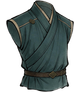
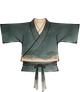
feat: B→A 完成 —— 提示语 v2/v3 迭代 + 16 件全齐（hero_trial 完整皮肤）
B（重生成 6 件比一版）
- 提示语 v2：手臂斜置 → 加「竖直摆放、笔直边缘平行、不是弯曲手臂」；头加「不要发带飘带」；
  躯干改「从领口到腰带为止」；全局加「像平铺在桌面上」「四周留白」
- 结果：头明显变好（脸更大更居中），袖子变竖直不再与躯干交叉 ✅
- 但暴露新问题：袖子被画得**太细**（内容宽高比 1:8 vs 骨骼盒 1:2.2），等比缩放后只剩 5px 宽 ≈ 手臂消失

关键修复（v3，两条都是实测逼出来的）
1) **画布比例决定部件朝向**：给 2496×1664（横）模型就把袖子画成横的（upperArmL 内容盒 2009×1408）。
   四肢统一给竖构图 1024x2048、脚给横构图 2048x1024 → 写进 art-prompts.json 的 sizes（按部件覆盖）
2) **四肢对位改用 fill（非等比铺满骨骼盒）**：四肢是"软性筒状物"，骨架盒就是形状权威；
   头/躯干/手/脚/披风/武器仍 contain（避免脸被拉变形）。新增 DEFAULT_PART_FIT 表 + 2 项测试

A（补齐剩余部件）
- 新增 10 件提示语：骨盆 / 左右手 / 左右大腿 / 左右小腿 / 左右靴 / 披风；声明 weaponGroup=dao
  （武器用共享贴图 weapons/dao/dao_<品质>.png，不单独生成）
- 最终 16 件自有贴图 + 1 件继承（weapon）→ hero_trial 是完整皮肤，可独立使用

v3 又暴露 4 个美术问题（已记入 art-prompts.json _notes 8~11 与提示语包 §4.5）
- 躯干又长出袖子 → 与上臂叠加成"双层袖"
- 左右同部件色调不一致（左小腿近黑）
- 腰部露白（torso 到腰带 + pelvis 68×32，接缝露背景）
- 上臂/前臂各带袖口束带 → 手臂出现 2~3 道横带

工具改进
- gen-art.ts：--out 覆盖输出目录（A/B 对比互不覆盖）；按部件尺寸；extras 走 verbatim
- fit-skin-part.ts：--fit 支持 fill，默认 auto（走 per-slot 表）
- 提示语包 md/txt 补 §4.5 第三轮发现与两条 v3 修复

证据（preview/ai-art/）
- 06 全 16 件对位后 4× 实拍 / 07 游戏内完整皮肤特写 / 08 游戏内整场
- 临时接入用的 units.csv 改动已还原并逐字节核对

验证：tsc 通过；208 项测试全绿（新增 2 项对位策略测试）；skin:check 通过

diff --git a/jianghu-game/tools/gen-art.ts b/jianghu-game/tools/gen-art.ts
@@ -39,8 +39,19 @@ export interface PromptConfig {
   charId: string;
   name?: string;
   body: string;
+  /** 武器组：写进 skin.json，决定用哪一套共享武器贴图（不填则跟随所在单位的武器组） */
+  weaponGroup?: string;
   model: string;
+  /** 默认出图尺寸（WxH 或 1K/2K/4K 预设） */
   size: string;
+  /**
+   * 按部件覆盖出图尺寸。
+   *
+   * ⚠ 这条是实测逼出来的：**画布比例会决定模型怎么摆部件**。
+   *   给 2496×1664（横）它就把袖子画成横的；给 1584×2816（竖）才画成竖的。
+   *   而 cutout 管线要求四肢"像平铺在桌面上"、主轴竖直 —— 所以四肢必须给竖构图。
+   */
+  sizes?: Record<string, string>;
   /** true 会带上平台的"AI 生成"水印 —— 部件贴图必须为 false */
   watermark?: boolean;
   stylePrefix: string;
@@ -200,6 +211,8 @@ interface Cli {
   force: boolean;
   only: string[] | null;
   char: string | null;
+  /** 覆盖原始图输出目录（用于 A/B 对比两版提示语，互不覆盖） */
+  out: string | null;
   model: string | null;
   size: string | null;
   delayMs: number;
@@ -212,6 +225,7 @@ function parseCli(argv: string[]): Cli {
     force: argv.includes('--force'),
     only: flag('only')?.split(',').map((s) => s.trim()).filter(Boolean) ?? null,
     char: flag('char') ?? null,
+    out: flag('out') ?? null,
     model: flag('model') ?? null,
     size: flag('size') ?? null,
     delayMs: Number(flag('delay') ?? 1200),
@@ -229,24 +243,39 @@ async function main(): Promise<void> {
   const cfg = JSON.parse(readFileSync(PROMPTS_FILE, 'utf8')) as PromptConfig;
   const charId = cli.char ?? cfg.charId;
   const model = cli.model ?? cfg.model;
-  const size = cli.size ?? cfg.size;
+  const defaultSize = cli.size ?? cfg.size;
 
-  const rawDir = join(ASSETS, 'chars', charId, 'raw');
+  const rawDir = cli.out
+    ? join(GAME_ROOT, cli.out)
+    : join(ASSETS, 'chars', charId, 'raw');
   const extrasDir = join(rawDir, '_extras');
 
   // 组装任务清单：parts 进 raw/，extras 进 raw/_extras/
-  const jobs: { name: string; prompt: string; outPath: string }[] = [];
+  const jobs: { name: string; prompt: string; size: string; outPath: string }[] = [];
   for (const [slot, subject] of Object.entries(cfg.parts)) {
     if (cli.only && !cli.only.includes(slot)) continue;
-    jobs.push({ name: slot, prompt: composePrompt(cfg, subject), outPath: join(rawDir, `${slot}.png`) });
+    jobs.push({
+      name: slot,
+      prompt: composePrompt(cfg, subject),
+      size: cfg.sizes?.[slot] ?? defaultSize,
+      outPath: join(rawDir, `${slot}.png`),
+    });
   }
   for (const [name, subject] of Object.entries(cfg.extras ?? {})) {
     if (cli.only && !cli.only.includes(name)) continue;
-    jobs.push({ name, prompt: composePrompt(cfg, subject, true), outPath: join(extrasDir, `${name}.png`) });
+    jobs.push({
+      name,
+      prompt: composePrompt(cfg, subject, true),
+      size: cfg.sizes?.[name] ?? defaultSize,
+      outPath: join(extrasDir, `${name}.png`),
+    });
   }
 
   console.log('=== 生图（火山方舟 · Seedream）===');
-  console.log(`角色 ${charId}　体型 ${cfg.body}　模型 ${model}　尺寸 ${size}　水印 ${cfg.watermark === true ? '开（部件贴图建议关）' : '关'}`);
+  const usedSizes = new Set(jobs.map((j) => j.size));
+  console.log(
+    `角色 ${charId}　体型 ${cfg.body}　模型 ${model}　尺寸 ${[...usedSizes].join(' / ')}　水印 ${cfg.watermark === true ? '开（部件贴图建议关）' : '关'}`,
+  );
   console.log(`输出目录 ${rawDir.replace(`${GAME_ROOT}/`, '')}/`);
   console.log(`任务 ${jobs.length} 张${cli.only ? `（--only=${cli.only.join(',')}）` : ''}`);
 
@@ -255,7 +284,7 @@ async function main(): Promise<void> {
     console.log('── --dry：以下是将要发送的请求（不调用 API、不花钱）──');
     for (const j of jobs) {
       console.log('');
-      console.log(`【${j.name}】→ ${j.outPath.replace(`${GAME_ROOT}/`, '')}`);
+      console.log(`【${j.name}】${j.size} → ${j.outPath.replace(`${GAME_ROOT}/`, '')}`);
       console.log(j.prompt);
     }
     console.log('');
@@ -291,7 +320,7 @@ async function main(): Promise<void> {
       model,
       prompt: job.prompt,
       response_format: 'url',
-      size,
+      size: job.size,
       stream: false,
       watermark: cfg.watermark === true,
     });
@@ -333,11 +362,25 @@ async function main(): Promise<void> {
     console.log(`已生成审图接触表（${n} 张）：${sheet.replace(`${GAME_ROOT}/`, '')}`);
     // 顺手写一份"试穿用"的皮肤声明（已存在则不动）
     const skinPath = join(ASSETS, 'chars', charId, 'skin.json');
-    if (!existsSync(skinPath)) {
+    if (cli.out) {
+      console.log('（--out 模式：不改动 skin.json）');
+    } else if (!existsSync(skinPath)) {
       mkdirSync(dirname(skinPath), { recursive: true });
       writeFileSync(
         skinPath,
-        `${JSON.stringify({ id: charId, name: cfg.name ?? charId, body: cfg.body, art: 'base_male', palette: {}, parts: {} }, null, 2)}\n`,
+        `${JSON.stringify(
+          {
+            id: charId,
+            name: cfg.name ?? charId,
+            body: cfg.body,
+            art: 'base_male',
+            ...(cfg.weaponGroup ? { weaponGroup: cfg.weaponGroup } : {}),
+            palette: {},
+            parts: {},
+          },
+          null,
+          2,
+        )}\n`,
         'utf8',
       );
       console.log(`已写试穿声明：${skinPath.replace(`${GAME_ROOT}/`, '')}（未画的部件继承底图 base_male）`);

diff --git a/jianghu-game/tools/fit-skin-part.ts b/jianghu-game/tools/fit-skin-part.ts
@@ -32,7 +32,8 @@ import { fileURLToPath } from 'node:url';
 import sharp from 'sharp';
 
 import { RIGS, DEFAULT_RIG_ID } from '../src/data/rigs.ts';
-import { expectedSkinSize, fitPartGeometry } from '../src/core/anim/skin.ts';
+import { expectedSkinSize, fitPartGeometry, resolveFitMode } from '../src/core/anim/skin.ts';
+import type { PartFitMode } from '../src/core/anim/skin.ts';
 import { SLOT_NAMES } from '../src/core/anim/types.ts';
 import type { RigDef, SlotName } from '../src/core/anim/types.ts';
 
@@ -53,7 +54,8 @@ interface Options {
   char: string | null;
   key: string;
   keyTol: number;
-  fit: 'contain' | 'height' | 'width';
+  /** auto = 按 slot 用 DEFAULT_PART_FIT（四肢 fill、其余 contain） */
+  fit: PartFitMode | 'auto';
   dry: boolean;
   pad: number;
 }
@@ -70,7 +72,7 @@ function parseArgs(argv: string[]): Options {
     char: flag('char') ?? null,
     key: flag('key') ?? 'auto',
     keyTol: Number(flag('key-tol') ?? 36),
-    fit: (flag('fit') as Options['fit']) ?? 'contain',
+    fit: (flag('fit') as Options['fit']) ?? 'auto',
     dry: argv.includes('--dry'),
     pad: Number(flag('pad') ?? 0),
   };
@@ -205,7 +207,8 @@ export async function fitPart(
   if (!box) throw new Error(`${basename(rawPath)}：抠底后没有任何不透明内容（背景色判断错了？试试 --key=none）`);
 
   // ④⑤⑥ 缩放 + 对枢轴（几何在 core 里，可零依赖测试）
-  const fit = fitPartGeometry({ w: box.w, h: box.h }, { w: targetW, h: targetH }, { x: px, y: py }, opts.fit);
+  const mode = resolveFitMode(slot, opts.fit);
+  const fit = fitPartGeometry({ w: box.w, h: box.h }, { w: targetW, h: targetH }, { x: px, y: py }, mode);
   const { destW, destH } = fit;
 
   // ⑤ 裁到内容盒 → 缩放到目标尺寸（lanczos 保细节）
@@ -245,7 +248,7 @@ export async function fitPart(
       scale: Math.round(fit.scale * 1000) / 1000,
       outputSize: `${targetW}×${targetH}`,
       keyed: keyed ? `是（${keyColor}，tol=${opts.keyTol}）` : '否',
-      anchor: `枢轴 ${px},${py} → 画布 (${Math.round(px * targetW)}, ${Math.round(py * targetH)}) 已钉住`,
+      anchor: `[${mode}] 枢轴 ${px},${py} → 画布 (${Math.round(px * targetW)}, ${Math.round(py * targetH)}) 已钉住`,
     },
   };
 }
@@ -264,7 +267,7 @@ async function main(): Promise<void> {
   if (!rig) throw new Error(`未知体型「${opts.body}」（可用：${Object.keys(RIGS).join(' / ')}）`);
 
   console.log('=== 部件贴图对位 ===');
-  console.log(`体型 ${opts.body}　抠底 ${opts.key}　适配 ${opts.fit}`);
+  console.log(`体型 ${opts.body}　抠底 ${opts.key}　适配 ${opts.fit}（auto = 四肢 fill、其余 contain）`);
 
   // ── 单个文件模式 ──
   if (!opts.char) {
@@ -274,7 +277,7 @@ async function main(): Promise<void> {
       console.log('  node tools/fit-skin-part.ts 原始图.png --slot=torso --body=male_adult --out=输出/torso.png');
       console.log('  node tools/fit-skin-part.ts 原始目录/ --char=ren_dao --body=burly [--dry]');
       console.log('');
-      console.log('可选参数：--key=auto|none|#rrggbb（默认 auto）　--key-tol=36　--fit=contain|height|width');
+      console.log('可选参数：--key=auto|none|#rrggbb（默认 auto）　--key-tol=36　--fit=auto|contain|height|width|fill');
       return;
     }
     if (!SLOT_NAMES.includes(opts.slot)) throw new Error(`未知 slot：${opts.slot}`);

diff --git a/jianghu-game/src/core/anim/skin.ts b/jianghu-game/src/core/anim/skin.ts
@@ -136,7 +136,7 @@ export interface PartFit {
   top: number;
 }
 
-export type PartFitMode = 'contain' | 'height' | 'width';
+export type PartFitMode = 'contain' | 'height' | 'width' | 'fill';
 
 /**
  * 把"内容包围盒"放进"部件画布"，**并让枢轴点对齐**。
@@ -161,14 +161,53 @@ export function fitPartGeometry(
         ? canvas.w / box.w
         : Math.min(canvas.w / box.w, canvas.h / box.h);
 
-  const destW = Math.max(1, Math.round(box.w * scale));
-  const destH = Math.max(1, Math.round(box.h * scale));
+  // fill = 直接铺满画布（允许非等比拉伸）。见 DEFAULT_PART_FIT 的说明。
+  const destW = mode === 'fill' ? canvas.w : Math.max(1, Math.round(box.w * scale));
+  const destH = mode === 'fill' ? canvas.h : Math.max(1, Math.round(box.h * scale));
 
   // 内容盒上的枢轴点 → 画布上的枢轴点
   const left = Math.round(pivot.x * canvas.w - pivot.x * destW);
   const top = Math.round(pivot.y * canvas.h - pivot.y * destH);
 
   return { destW, destH, scale, left, top };
+}
+
+/**
+ * 每个 slot 的**默认对位策略**。
+ *
+ * 为什么不能一律用 contain（等比）？
+ *   实测：AI 把"上臂"画成一根很细的竖长条（宽高比 1:8），而骨骼盒是 24×52（1:2.2）。
+ *   等比缩放后袖子只剩 5px 宽，渲染到屏幕上约 2px —— 等于手臂没了。
+ *
+ *   判断依据是"这个部件是不是一个软性筒状物"：
+ *     · 四肢（上臂/前臂/大腿/小腿）= 布筒 → `fill`：**骨架盒就是形状权威**，
+ *       轻微非等比拉伸在纯色布料上几乎看不出来，且能保证关节与比例正确
+ *     · 躯干/头/手/脚/披风/武器 = 有明确外形 → `contain`：宁可窄一点，也不能把脸拉变形
+ */
+export const DEFAULT_PART_FIT: Record<SlotName, PartFitMode> = {
+  pelvis: 'contain',
+  torso: 'contain',
+  head: 'contain',
+  cloak: 'contain',
+  upperArmR: 'fill',
+  forearmR: 'fill',
+  upperArmL: 'fill',
+  forearmL: 'fill',
+  thighR: 'fill',
+  shinR: 'fill',
+  thighL: 'fill',
+  shinL: 'fill',
+  handR: 'contain',
+  handL: 'contain',
+  footR: 'contain',
+  footL: 'contain',
+  weapon: 'contain',
+};
+
+/** 取某个 slot 的对位策略（override 传了就用 override） */
+export function resolveFitMode(slot: SlotName, override?: PartFitMode | 'auto'): PartFitMode {
+  if (override && override !== 'auto') return override;
+  return DEFAULT_PART_FIT[slot] ?? 'contain';
 }
 
 /* ══════════════════════ 校验 ══════════════════════ */

diff --git a/jianghu-references/01_character/生图提示语_角色部件_v1.0.md b/jianghu-references/01_character/生图提示语_角色部件_v1.0.md
@@ -150,6 +150,47 @@
 
 ---
 
+## 4.4 ⚠ 第二轮修订（v2）—— 首轮试穿暴露的三个坑
+
+首轮用本文件 §4.2 的提示语生成了 6 件（躯干 / 头 / 左右上臂 / 左右前臂），
+风格与质量都达标，但**挂到骨骼上**暴露了三个问题。它们都不是"画得不好"，而是"画得不符合部件规范"：
+
+| # | 现象 | 根因 | v2 提示语怎么改 |
+|:-:|------|------|-----------------|
+| 1 | 袖子与躯干**交叉成 X** | 模型按"手臂自然下垂"画成了斜置，而部件必须像**平铺在桌面上** | 加「**竖直摆放、笔直向下、左右边缘平行、不是弯曲手臂**」 |
+| 2 | 头**偏小**、脸只占画布 60% 宽 | 发带飘带也被算进内容包围盒，把脸挤小了 | 加「**不要画发带、不要飘带、不要长发飘散**」 |
+| 3 | 躯干下摆**压到骨盆** | 画到了腰带以下，多出的衣摆被挤进躯干骨骼盒 | 改为「**从领口到腰带为止，腰带以下不要画**」 |
+
+另外两条全局修订（写进 `stylePrefix` / `styleSuffix`）：
+
+| 修订 | 原因 |
+|------|------|
+| 加「物品像**平铺在桌面上**一样摆放，主轴垂直或水平、不要透视倾斜」 | 这是整套 cutout 管线的根本前提：部件是"零件"，不是"插画" |
+| 加「单件居中、**四周留白**」 | 贴边裁切会让内容包围盒失真 |
+
+> 已落地的机器可读版本在 `jianghu-game/data/art-prompts.json`（含 16 个部件的完整提示语 + `_notes` 修订依据），
+> 用 `pnpm art:gen --dry` 可以直接看到最终拼接结果。
+
+### 4.5 第三轮发现（v3：补齐 16 件后）
+
+v2 把「手臂斜置」修好了。补齐 16 件并挂到骨骼上后，又暴露 4 个新问题（已记入 `art-prompts.json` 的 `_notes` 第 8~11 条）：
+
+| # | 现象 | 下一版对策 |
+|:-:|------|-----------|
+| 8 | **躯干又长出了袖子** → 与上臂部件叠加成"双层袖" | 提示语加「无袖，肩部是袖根切口（armhole），不要画袖子」 |
+| 9 | **左右同部件色调不一致**（左小腿被画成近黑） | 改为「与近侧完全同色」，远近层次交给引擎侧处理 |
+| 10 | **腰部露白**（torso 到腰带 + pelvis 只有 68×32，接缝露出背景） | torso 保留一点腰下布料，或让 pelvis 内容铺满画布 |
+| 11 | 上臂 / 前臂**各带袖口束带** → 手臂出现 2~3 道横带 | 束带只放在前臂末端 |
+
+两条 **v3 关键修复**（都已落进工具与配置）：
+
+| 修复 | 说明 |
+|------|------|
+| **画布比例决定部件朝向** | 给竖构图（`1024x2048`）模型才把袖子画成竖的；给横构图它画成横的（实测 `upperArmL` 内容盒 2009×1408 = 横袖子）。四肢统一竖构图、脚横构图（`2048x1024`），写进 `art-prompts.json` 的 `sizes` 字段 |
+| **四肢对位用 `fill`（非等比铺满骨骼盒）** | AI 画的袖子宽高比常与骨骼盒差很远，等比缩放后只剩几像素宽 ≈ 手臂消失。四肢是"软性筒状物"，**骨架盒本就是它的形状权威**；头/躯干/手/脚/披风/武器仍用 `contain`，避免脸被拉变形 |
+
+---
+
 ## 5. 第 2 步：抠底 + 自动对位（**这一步把 AI 图变成能用的贴图**）
 
 AI 出图尺寸是随机的（512×768、1024×1024…），骨架却要求**精确画布 + 关节在枢轴**。
